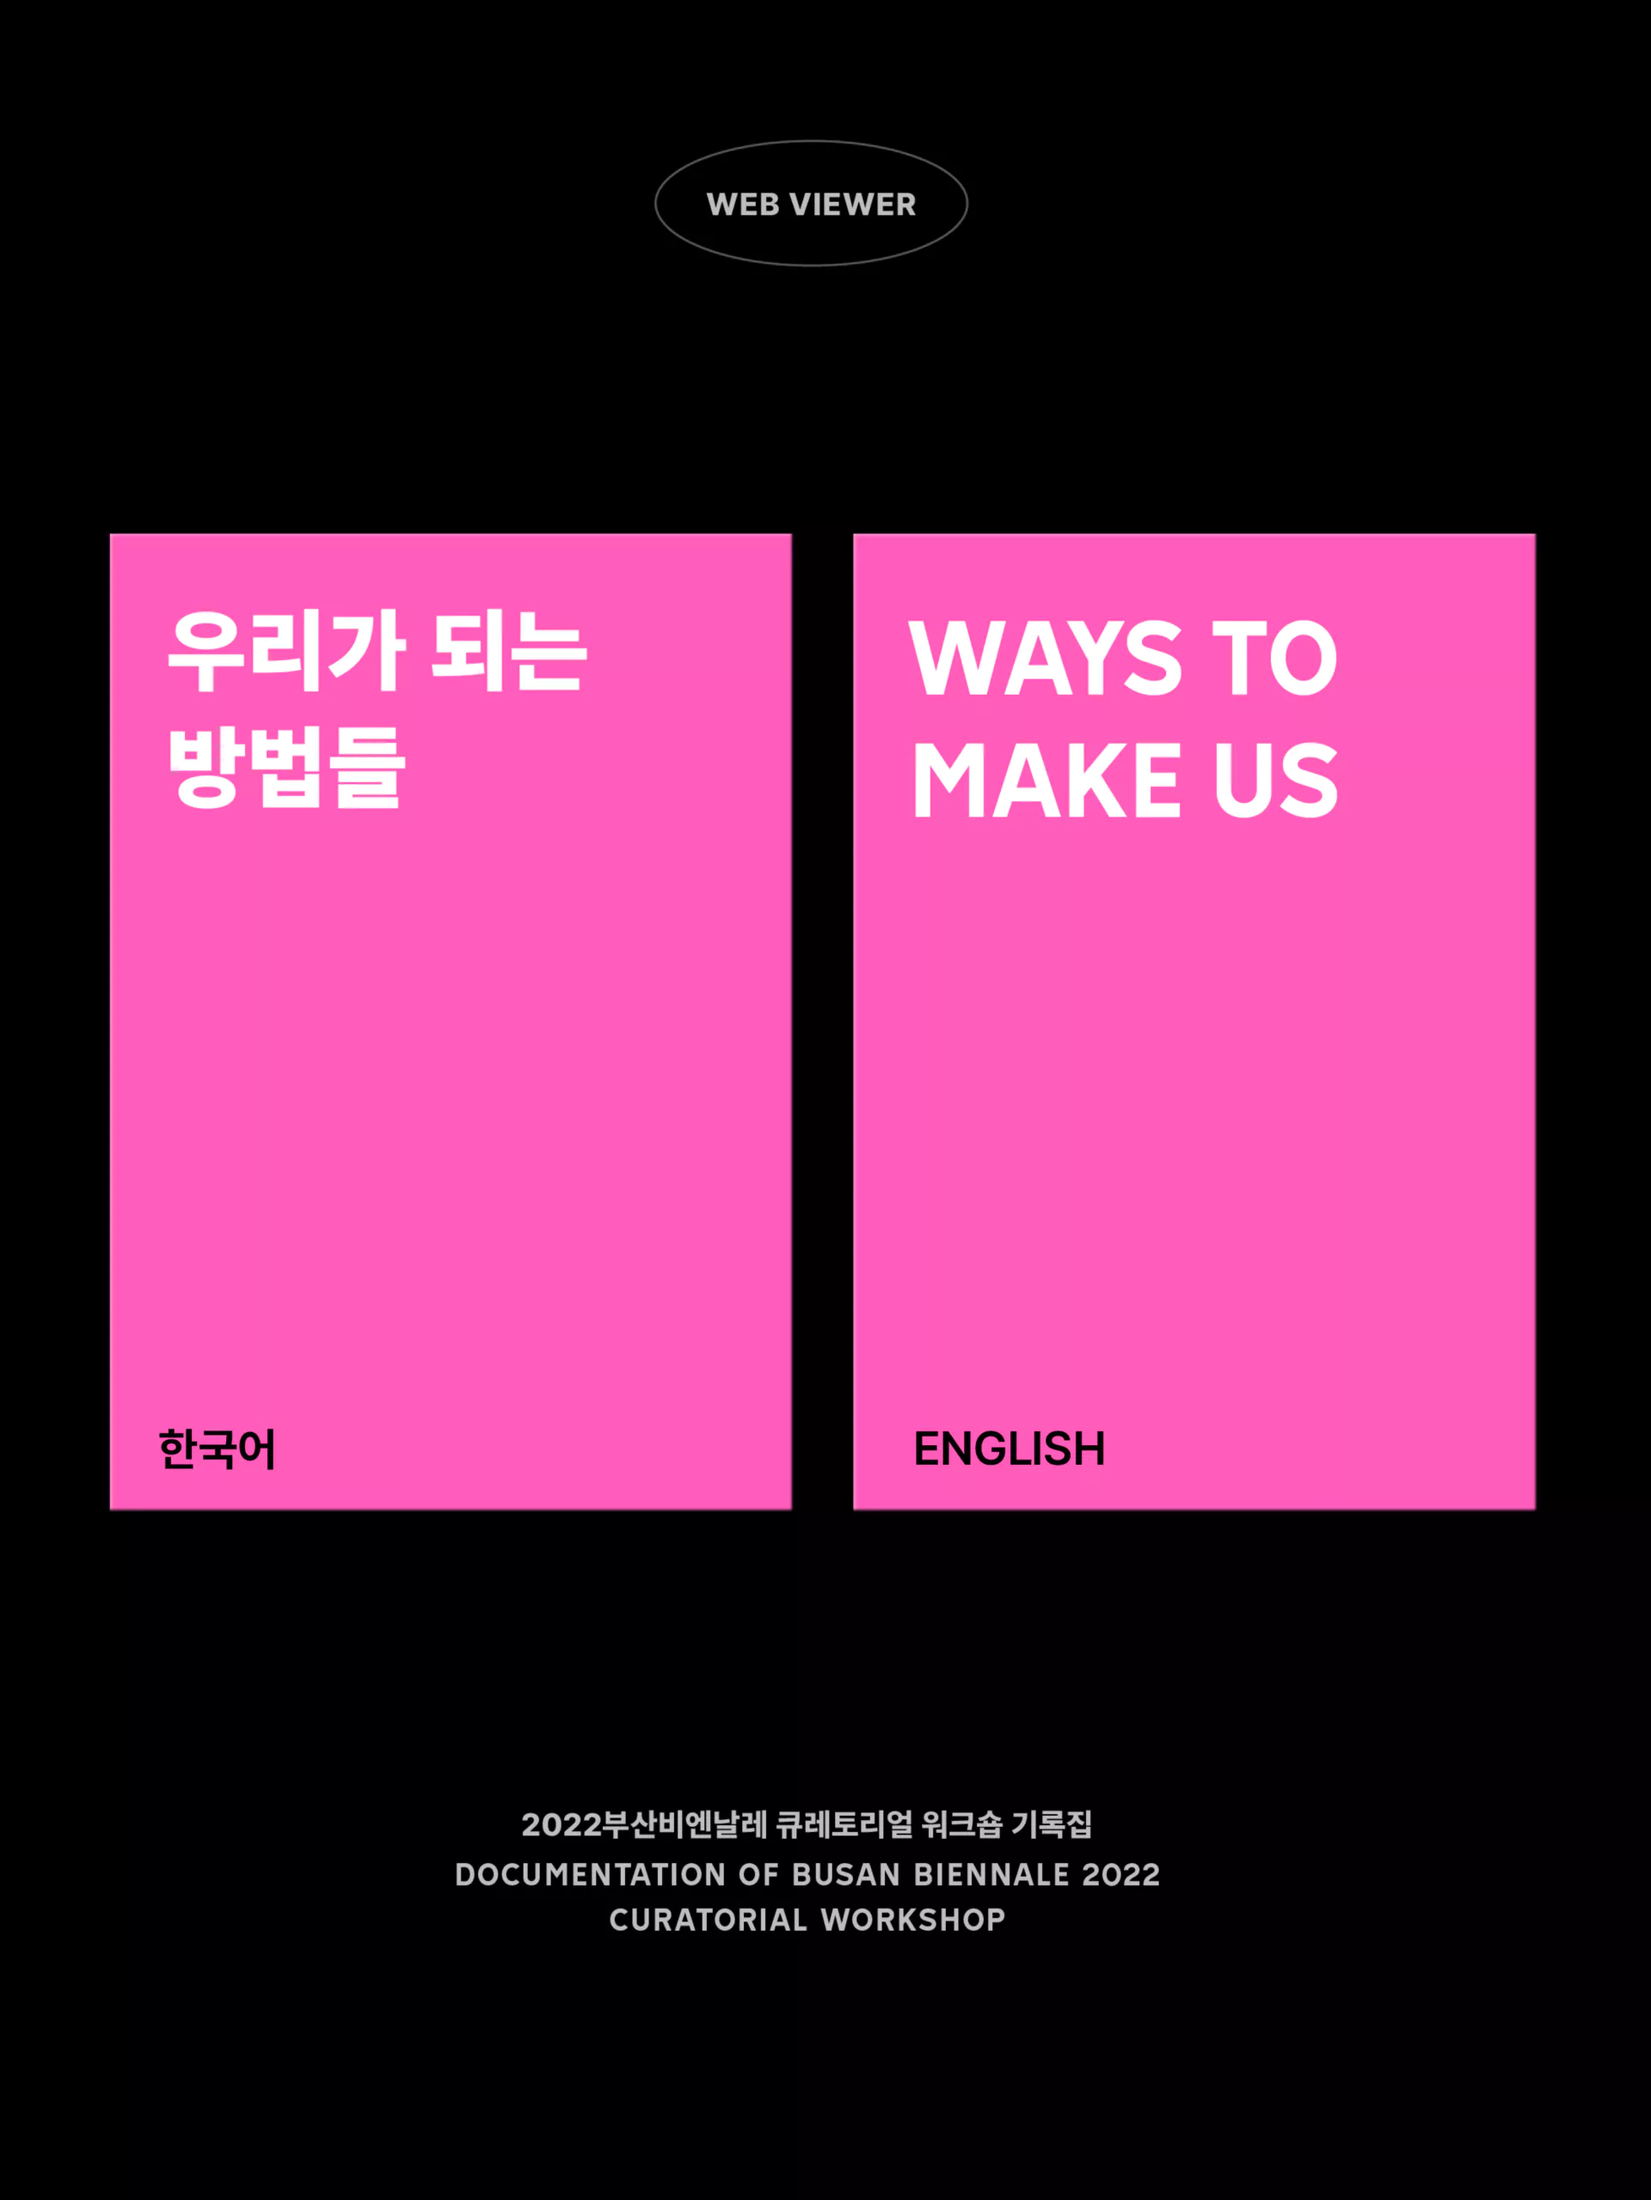
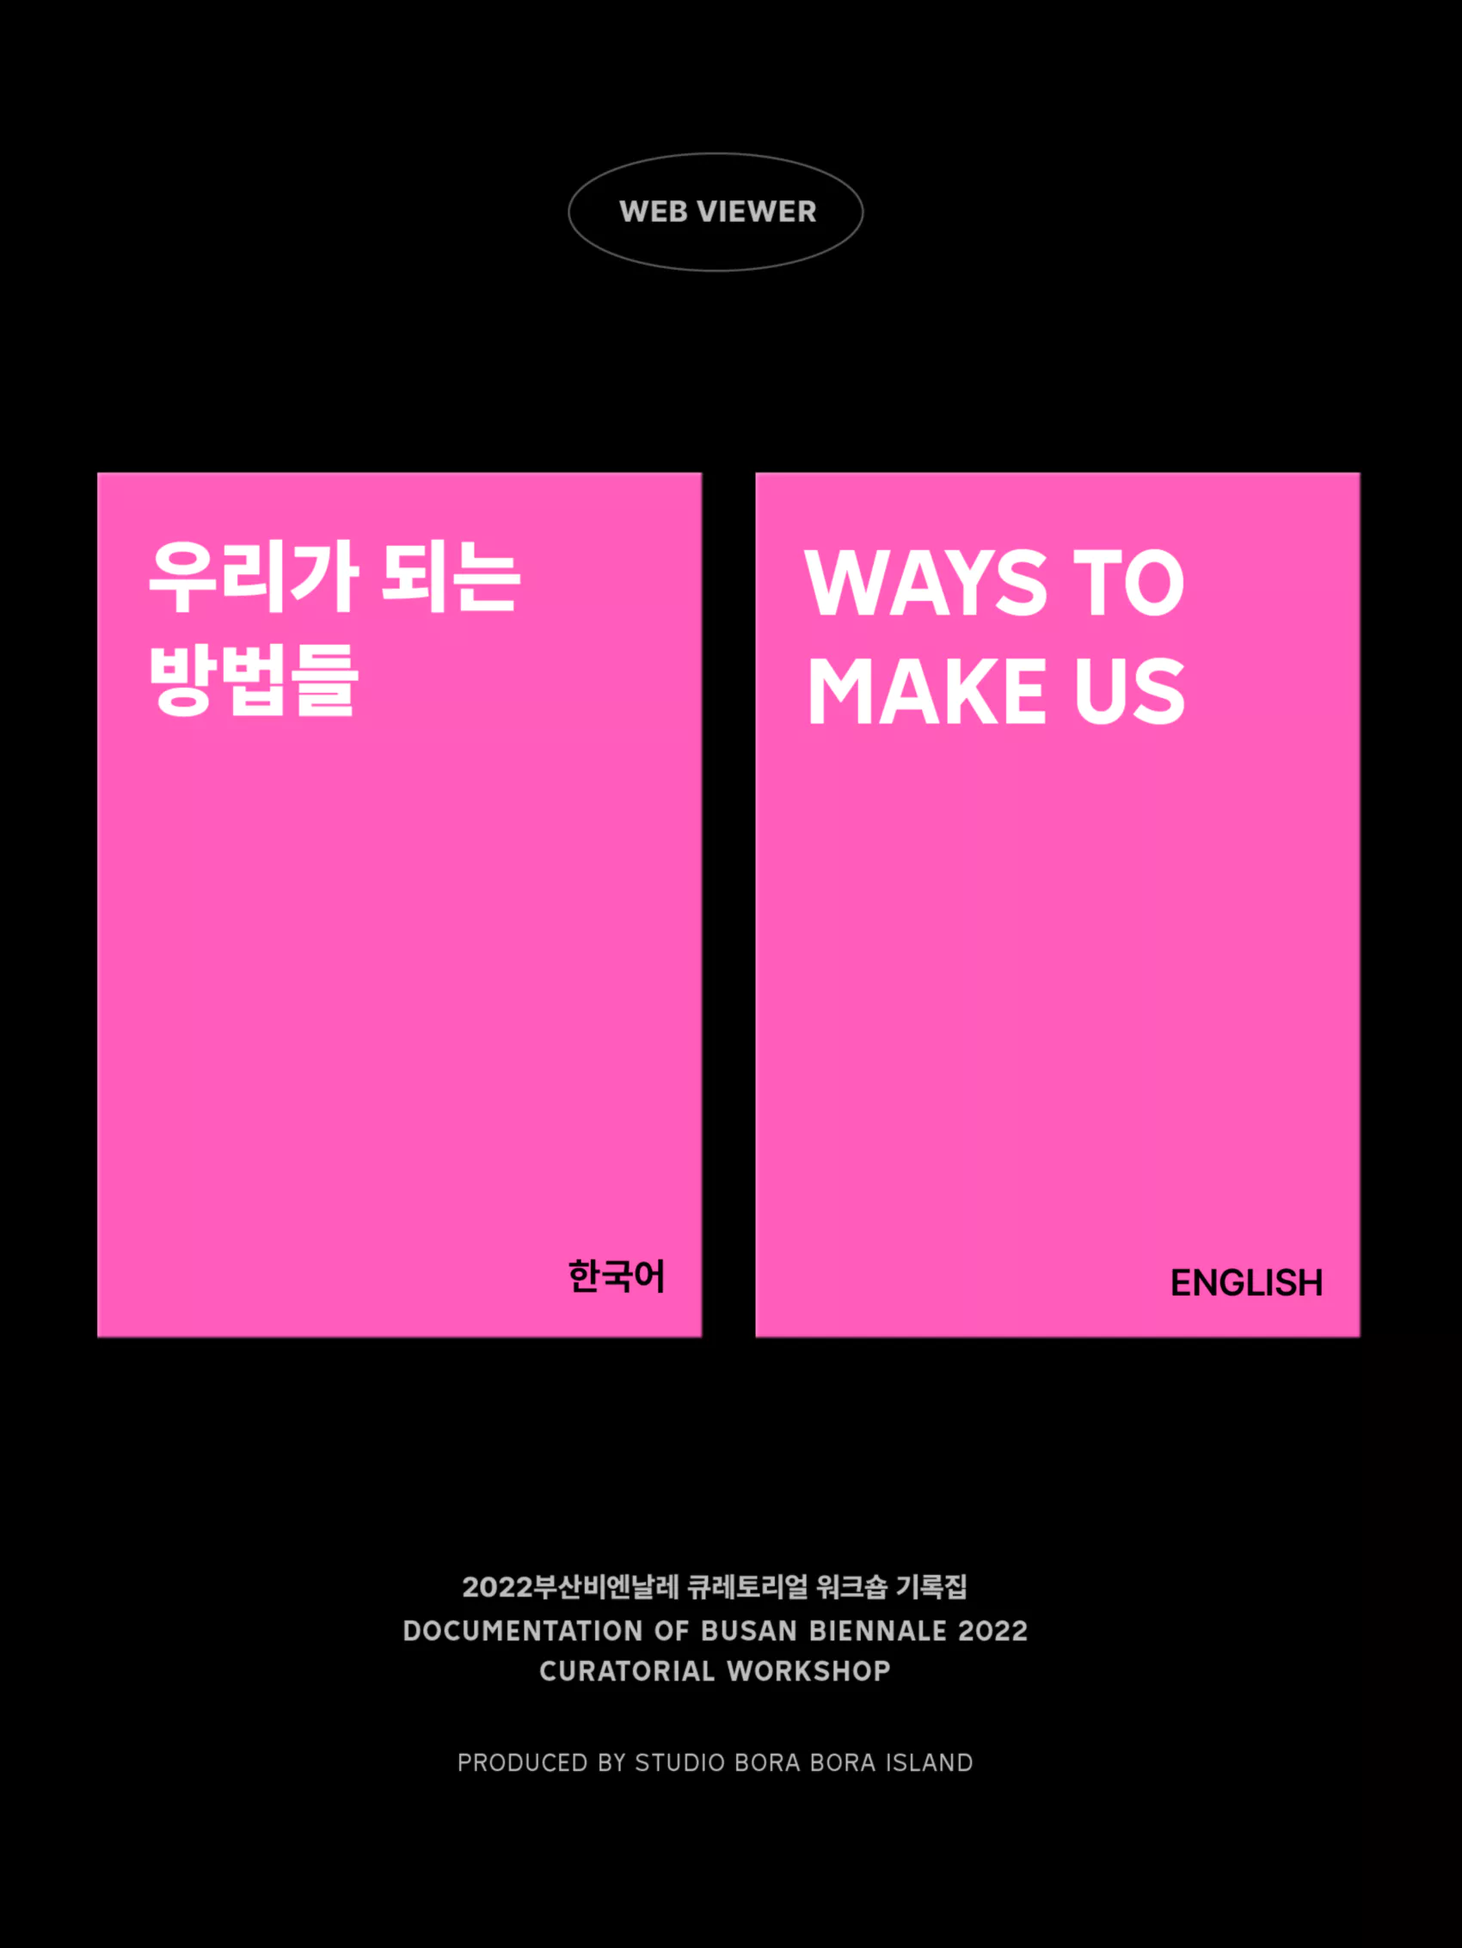
image change

diff --git a/index.html b/index.html
@@ -35,7 +35,7 @@
       </div>
 
       <div class="viewer">
-        <img id="page" src="/pages/US0.webp" alt="" />
+        <img id="page" src="/pages/ko/K0.webp" alt="" />
       </div>
 
       <div class="nav-back" id="nav-back"></div>
